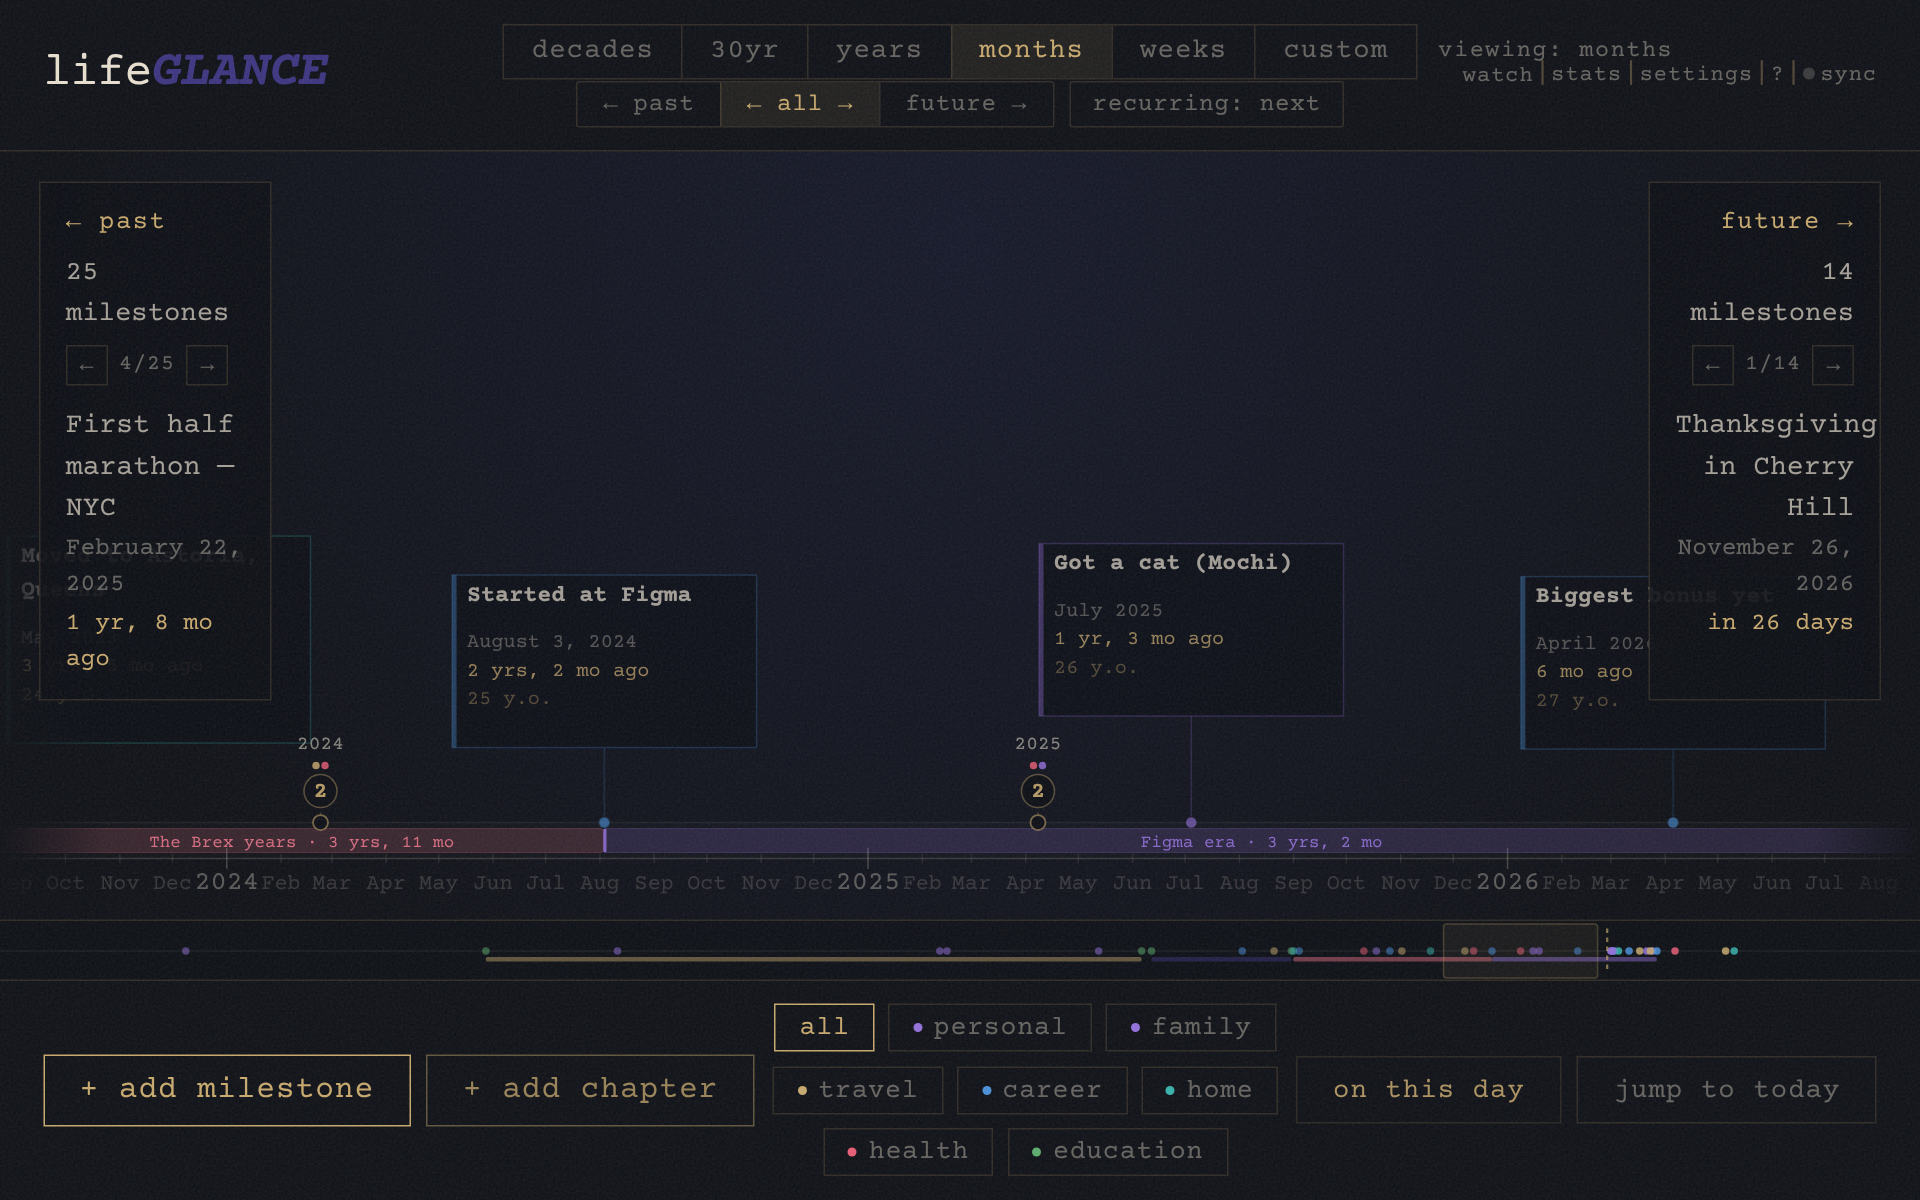
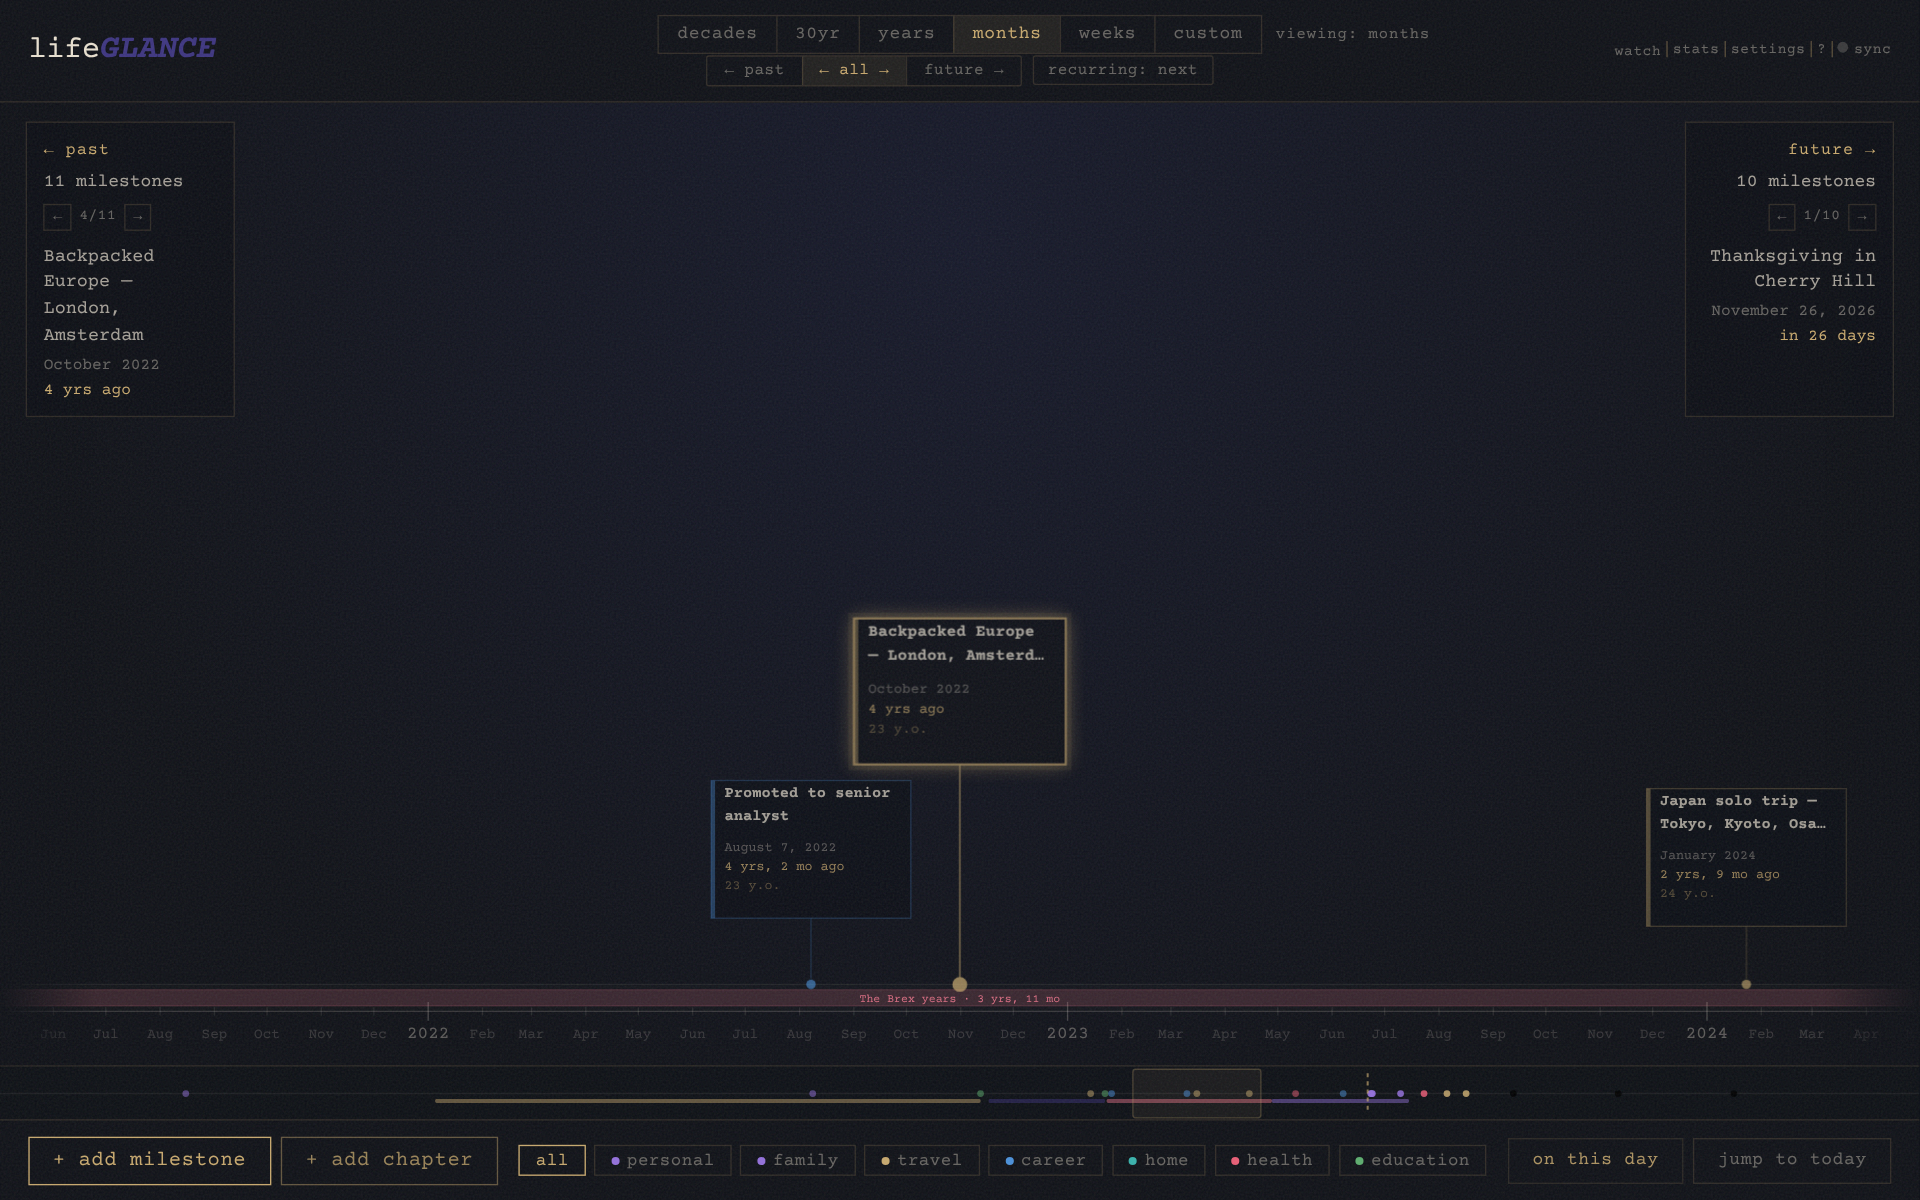
Re-render every store screenshot; move to Apple's new iPhone slot
Two unrelated changes, both forcing a full regeneration.

App Store Connect retired the 6.9" slot. The iPhone galleries are now "iPhone
with Dynamic Island (medium display)" (1206 x 2622 or 1179 x 2556) and "iPhone
Duo". We take the larger. Its aspect is within 0.06% of the old 1320 x 2868, so
the composition carried over untouched — PHONE_K rescales the tuned geometry
and the type is re-rendered at the new size rather than downsampled. Tablet
slots are unchanged, so the iPad frames needed no size work.

The frames themselves were wrong, and not for the reason it looked like. Every
pane had been captured at 900 CSS px tall or less, which trips compactLayout:
the axis is pinned near the bottom and EVERY card is forced above it, with too
few lanes to separate them. That reads as a seed problem and is not one. Three
settings fix it, none of them code:

- clustering off, or no card draws at all at wide zoom — only single-member
  groups reach the card renderer, so the frame is an empty axis;
- text size 'small', since CARD_W, CARD_H2 and CARD_STEP all scale off remPx,
  so one step down narrows and shortens every card at once;
- viewport height as close to 900 as each output aspect allows (792 bought four
  lanes, 880 buys six), with deviceScaleFactor absorbing the difference so
  output pixels are unchanged.

That still leaves more cards than lanes. A +/-10 year view of the full seed
needs roughly 24 lanes and the layout can offer six, so the seed is thinned to
[…]

diff --git a/scripts/compose-apple-frames.py b/scripts/compose-apple-frames.py
@@ -135,21 +135,33 @@ def fit_width(path, width):
 
 
 # ----------------------------------------------------------------- shots ---
-IPHONE_W, IPHONE_H = 1320, 2868
+# App Store Connect retired the 6.9" slot. The iPhone galleries are now
+# "iPhone with Dynamic Island (medium display)", which takes 1179 x 2556 or
+# 1206 x 2622, and "iPhone Duo". 1206 x 2622 is the larger of the two and its
+# aspect is within 0.06% of the old 1320 x 2868, so the composition carries over
+# unchanged — PHONE_K rescales the geometry and the type is re-rendered at the
+# new size rather than downsampled. Tablet slots are unchanged.
+IPHONE_W, IPHONE_H = 1206, 2622
+PHONE_K = IPHONE_W / 1320          # geometry below was tuned against the old canvas
 IPAD_W, IPAD_H = 2752, 2064
 IPAD_BAND = 480        # caption band; the pane fills the rest, bleeding to three edges
-PANE_GAP = 36
+PANE_GAP = round(36 * PHONE_K)
+
+
+def k(v):
+    """Scale a length tuned against the 1320-wide canvas to the current one."""
+    return round(v * PHONE_K)
 
 SHOTS = [
-    dict(kind="iphone", out="iphone69/01-decades.png", panes=["iphone/01a", "iphone/01b"],
-         eyebrow="DECADES TO WEEKS", l1="See your whole life,", l2="at a glance."),
-    dict(kind="iphone", out="iphone69/02-chapters.png", panes=["iphone/02a", "iphone/02b"],
+    dict(kind="iphone", out="iphone-dynamic-island/01-decades.png", panes=["iphone/01a", "iphone/01b"],
+         eyebrow="YEARS TO MONTHS", l1="See your whole life,", l2="at a glance."),
+    dict(kind="iphone", out="iphone-dynamic-island/02-chapters.png", panes=["iphone/02a", "iphone/02b"],
          eyebrow="CHAPTERS", l1="The eras you lived,", l2="drawn to scale."),
-    dict(kind="iphone", out="iphone69/03-future.png", panes=["iphone/03a", "iphone/03b"],
+    dict(kind="iphone", out="iphone-dynamic-island/03-future.png", panes=["iphone/03a", "iphone/03b"],
          eyebrow="THE FUTURE HALF", l1="Half your timeline", l2="hasn't happened yet."),
-    dict(kind="iphone", out="iphone69/04-on-this-day.png", panes=["iphone/04a", "iphone/04b"],
+    dict(kind="iphone", out="iphone-dynamic-island/04-on-this-day.png", panes=["iphone/04a", "iphone/04b"],
          eyebrow="ON THIS DAY", l1="What today meant", l2="in every other year."),
-    dict(kind="iphone", out="iphone69/05-add-milestone.png", panes=["iphone/05a"],
+    dict(kind="iphone", out="iphone-dynamic-island/05-add-milestone.png", panes=["iphone/05a"],
          eyebrow="ADD A MILESTONE", l1="Some memories have a date.", l2="Others have a year.",
          bullets=["Works fully offline.", "No account, no analytics.",
                   "Your life stays on your device."]),
@@ -163,8 +175,8 @@ SHOTS = [
 def compose_iphone(shot, pane_dir, out_path):
     canvas = build_bg(IPHONE_W, IPHONE_H)
     draw_caption(canvas, shot["eyebrow"], shot["l1"], shot["l2"],
-                 eb_y=150, eb_size=34, eb_track=10,
-                 head_y=236, head_size=132, head_pad=210)
+                 eb_y=k(150), eb_size=k(34), eb_track=k(10),
+                 head_y=k(236), head_size=k(132), head_pad=k(210))
 
     panes = [fit_width(pane_dir / f"{p}.png", IPHONE_W) for p in shot["panes"]]
     block_h = sum(p.height for p in panes) + PANE_GAP * (len(panes) - 1)
@@ -172,18 +184,19 @@ def compose_iphone(shot, pane_dir, out_path):
     if shot.get("bullets"):
         # One pane plus the privacy block: seat the pane just under the caption
         # and give the bullets the whole remaining column to centre in.
-        top = 760
+        top = k(760)
     else:
         # Two panes: centre the stack in the space below the caption, so the
         # bottom margin reads as deliberate rather than left over.
-        top = 620 + (IPHONE_H - 620 - block_h) // 2
+        top = k(620) + (IPHONE_H - k(620) - block_h) // 2
     y = top
     for p in panes:
         canvas.paste(p, (0, y))
         y += p.height + PANE_GAP
 
     if shot.get("bullets"):
-        draw_bullets(canvas, shot["bullets"], top + block_h, IPHONE_H - 60)
+        draw_bullets(canvas, shot["bullets"], top + block_h, IPHONE_H - k(60),
+                     size=k(56), gap=k(130))
 
     canvas.save(out_path)
     return canvas.size

diff --git a/store-assets/README.md b/store-assets/README.md
@@ -14,7 +14,7 @@ out, and composes the Apple canvases. Everything is declared in
 
 | Slot | Canvas | Files |
 |---|---|---|
-| `apple/iphone69/` | 1320 × 2868 portrait | 5 |
+| `apple/iphone-dynamic-island/` | 1206 × 2622 portrait | 5 |
 | `apple/ipad13/` | 2752 × 2064 landscape | 2 |
 | `play/phone/` | 1920 × 1080 landscape | 5 |
 | `play/tablet7/` | 1920 × 1200 landscape | 2 |
@@ -22,6 +22,74 @@ out, and composes the Apple canvases. Everything is declared in
 
 `apple/captions.json` is written alongside the frames and carries the caption
 text of each Apple shot, so the listing copy and the images cannot drift apart.
+
+## The iPhone canvas
+
+App Store Connect retired the 6.9" slot. The iPhone galleries are now **iPhone
+with Dynamic Island (medium display)**, which accepts 1206 × 2622 or
+1179 × 2556, and **iPhone Duo**. We use the larger of the two.
+
+Its aspect is within 0.06% of the old 1320 × 2868, so the composition carried
+over untouched: `PHONE_K` in the compositor rescales the tuned geometry and the
+type is re-rendered at the new size rather than downsampled. Tablet slots are
+unchanged, so the iPad frames were unaffected by the change.
+
+## Three settings carry these frames
+
+None needs code; all three are ordinary user settings written before the
+reload. Each one is load-bearing, and the frames fall apart without it.
+
+- **`lifeglance-clustering = false`.** With clustering on, every wide zoom
+  collapses milestones into numbered circles and *no card draws at all* —
+  `Timeline.jsx` routes only single-member groups to the card renderer — so the
+  frame is an empty axis. This is the binary gate: no amount of density or
+  viewport tuning substitutes for it.
+- **`lifeglance-text-size = small`.** `CARD_W`, `CARD_H2` and `CARD_STEP` all
+  scale off `remPx` (19 at `small` against 22 at `normal`), so one step down
+  makes cards narrower *and* shorter — fewer horizontal collisions and an extra
+  lane to resolve the rest. The cheapest lever on card pile-up.
+- **Viewport height ≤ 900 CSS px.** `Timeline.jsx` flips to `compactLayout` at
+  `(max-height: 900px)`, which pins the axis near the bottom and stacks every
+  card above it. That is the arrangement these frames want. Within the mode the
+  lane count rises with height, so each viewport sits as close to 900 as its
+  output aspect allows — 792 bought four lanes, 880 buys six — and
+  `deviceScaleFactor` absorbs the difference so output pixels never change.
+
+The trap worth knowing: capture at 792 px and the frames look broken in a way
+that reads as a seed problem. It is not. It is compact layout forcing every
+card above a bottom-pinned axis with too few lanes to separate them.
+
+## Why the seed is thinned
+
+The lane algorithm can only offer about six lanes. A ±10 year view of the full
+52-milestone seed needs roughly **24** to place its cards without collisions, so
+they land on top of each other. Viewport and text size together buy two or three
+lanes, not eighteen — thinning is the only lever that closes that gap, and
+`KEEP_EVERY = 3` is where the collisions stop.
+
+Three supports around it:
+
+- **`PROTECTED`** — scenes look milestones up by title, so thinning must never
+  drop the ones a shot depends on.
+- **`EXCLUDE`** — the months either side of today are the seed's busiest stretch
+  and several entries there are protected, so one unprotected card landed on its
+  neighbours in every wide shot. Dropping it clears the last collision.
+- **`HORIZON`** — the thinned timeline otherwise dead-ends in early 2029 with a
+  decade of bare axis to its right. Three aspirational entries, deliberately
+  unevenly spaced, carry the eye to the edge of the window. They follow threads
+  the persona already has rather than inventing a new life.
+
+One density for every gallery, so the past/future counters — which are visible
+in the frames — agree across a listing.
+
+## Zoom choice: `years`, not `30yr`
+
+A preset names its **half**-range, so `30yr` is a *sixty* year window. On a
+27-year-old that leaves the outer thirds bare and crushes everything into the
+middle, where it piles up no matter how hard the seed is thinned. `years` is
+twenty years: it loses the childhood, but it spreads cards across the full width
+and the today marker and age readout — the two things that must survive Apple's
+thumbnail — are more legible for it.
 
 ## House style: no device chrome
 
